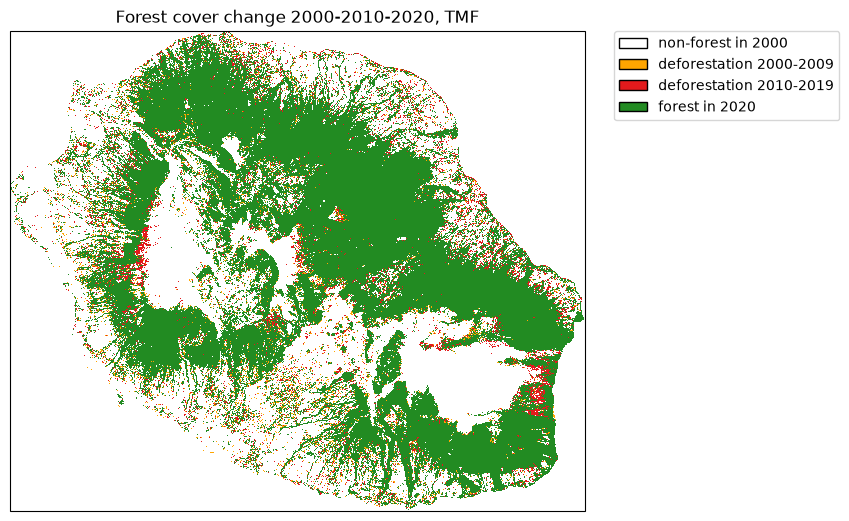
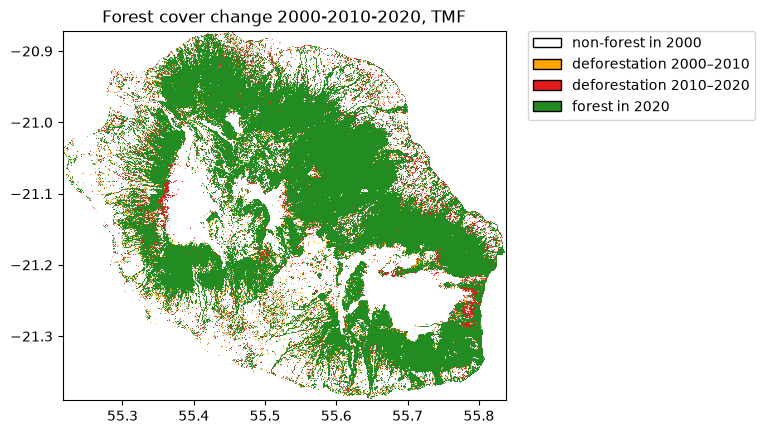
Correcting bug for label in plot_fcc_loss

diff --git a/geefcc/plot/plot_fcc_loss.py b/geefcc/plot/plot_fcc_loss.py
@@ -28,7 +28,7 @@ def plot_fcc_loss(
     Produces a PNG map from a single-band raster file obtained by
     summing the bands of a multiband raster produced by
     :func:`get_fcc_loss` (e.g. with :func:`sum_raster_bands`). Pixel
-    values encode four classes:
+    values encode forest cover change classes:
 
     - 0 = non-forest at ``years[0]``
     - 1 = deforestation during period 1 (``years[0]``--``years[1]``)
@@ -165,7 +165,7 @@ def plot_fcc_loss(
     labels = {0: f"non-forest in {years[0]}"}
     for i in range(n_periods):
         labels[i + 1] = f"deforestation {years[i]}\u2013{years[i + 1]}"
-    labels[n_periods] = f"forest in {years[-1]}"
+    labels[n_periods + 1] = f"forest in {years[-1]}"
     patches = [
         mpatches.Patch(facecolor=col, edgecolor="black", label=labels[i])
         for i, col in enumerate(colors)

diff --git a/docsrc/notebooks/get_started/get_started.rst b/docsrc/notebooks/get_started/get_started.rst
@@ -30,7 +30,7 @@ from the Tropical Moist Forest product. We will use the Reunion Island
 
     # Download data from GEE
     out_dir = Path("out_tmf")
-    ofile = out_dir / "forest_tmf.tif"
+    forest_file = out_dir / "forest_tmf.tif"
     if not ofile.is_file():
         geefcc.get_fcc_loss(
             aoi="REU",
@@ -39,46 +39,22 @@ from the Tropical Moist Forest product. We will use the Reunion Island
             parallel=False,
             crop_to_aoi=True,
             tile_size=0.5,
-            output_file=ofile,
+            output_file=forest_file,
         )
 
-::
-
-    get_fcc running, 3 tiles ....
-
+We transform the forest raster with three bands into a single-band forest cover change raster.
 
 .. code:: python
 
-    # Load data
-    forest_tmf = rioxarray.open_rasterio(ofile)
-    forest_tmf
-
-::
-
-    <xarray.DataArray (band: 3, y: 1924, x: 2305)> Size: 13MB
-    [13304460 values with dtype=int8]
-    Coordinates:
-      * band         (band) int64 24B 1 2 3
-      * y            (y) float64 15kB -20.87 -20.87 -20.87 ... -21.39 -21.39 -21.39
-      * x            (x) float64 18kB 55.22 55.22 55.22 55.22 ... 55.84 55.84 55.84
-        spatial_ref  int64 8B 0
-    Attributes:
-        AREA_OR_POINT:  Area
-        data_var:       forest_cover
-        time:           2000-01-01T00:00:00.000
-        scale_factor:   1.0
-        add_offset:     0.0
-
-.. code:: python
-
-    # Sum bands to get a single-band fcc raster
     fcc_file = out_dir / "fcc_tmf.tif"
     if not fcc_file.is_file():
         geefcc.sum_raster_bands(
-            input_file=ofile,
+            input_file=forest_file,
             output_file=fcc_file,
             verbose=False,
         )
+
+We plot the forest cover change map.
 
 .. code:: python
 
